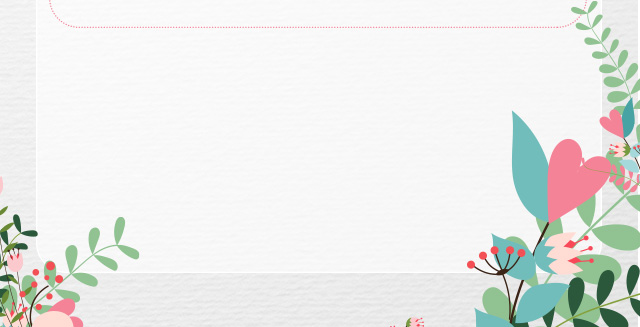
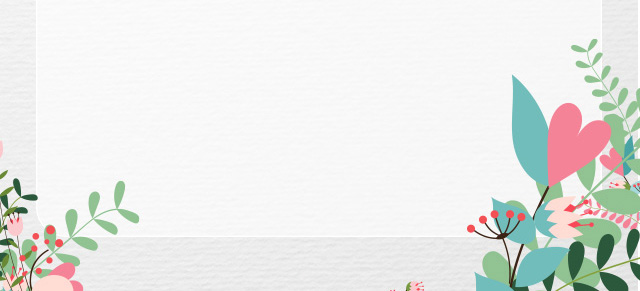
：修改

diff --git a/public/static/front/css/index.css b/public/static/front/css/index.css
@@ -84,7 +84,7 @@
 
 /*第七页*/
 .floor7{display:none;}
-.floor7 .floorDes{margin:5% 5% 0;width:90%;}
+.floor7 .floorDes{margin:0 5% 0;width:90%;}
 .floor7 .floorDes h3{color:red;font-size:0.3rem;padding:1px 0;}
 .floor7 .floorDes h4{text-align:justify;font-size:0.23rem;line-height:0.33rem;margin:5px 6%;width:88%;color:#666;}
 .floor7 .floorDes h4 strong{color:#333;}
@@ -92,10 +92,14 @@
 .floorFrame{position:relative;}
 .floorFrame1 .floorDes{margin:19% 5% 0;}
 .floorFrame2 .floorDes{margin:0 5% 0;}
+
 .floorFrame3 h6{margin:0 0 5px;}
 .floorFrame3 h6 img{width:25%;}
 .floorFrame3 h6 b{font-weight:normal;font-size:0.24rem;line-height:0.34rem;color:#666;}
 .floorFrame2  .floorDeslast{background:url(../images/lastbg2.jpg) repeat;background-size:100% 100%;}
+.floorFrame4{line-height:0;}
+.floorFrame4 img{width:100%;}
+.floorFrame5{background:url(../images/lastbg5.jpg) repeat;background-size:100% 100%;height:5px;}
 
 /* layer弹框 */
 .layer{position:fixed;top:30%;left:50%;margin-left:-80px;padding:25px 30px;font-size:14px;color:#fff;background:url(../images/opa70.png) top left repeat;z-index:999;border-radius:4px;}

diff --git a/application/front/view/index/index.html b/application/front/view/index/index.html
@@ -241,6 +241,10 @@
                         </h5>
                     </div>
                 </div>
+                <div class="floorFrame floorFrame4">
+                    <img src="/static/front/images/lastbg4.jpg" alt="" />
+                </div>
+                <div class="floorFrame floorFrame5"></div>
                 <div class="floorFrame floorFrame3">
                     <div class="floorBg">
                         <img src="/static/front/images/lastbg3.jpg" alt="" />

diff --git a/public/static/front/js/index.js b/public/static/front/js/index.js
@@ -114,6 +114,13 @@ $(function () {
         }
     });
 
+    /*获取高度*/
+    var $height = $('.floor7 .floorDeslast h5').text().length;   
+    if($height<100){
+        $(".floorFrame5").css('height','90px');
+    }else if($height<130){
+        $(".floorFrame5").css('height','30px');
+    }
 
     /**********点击下一步**********/
     //第一页
